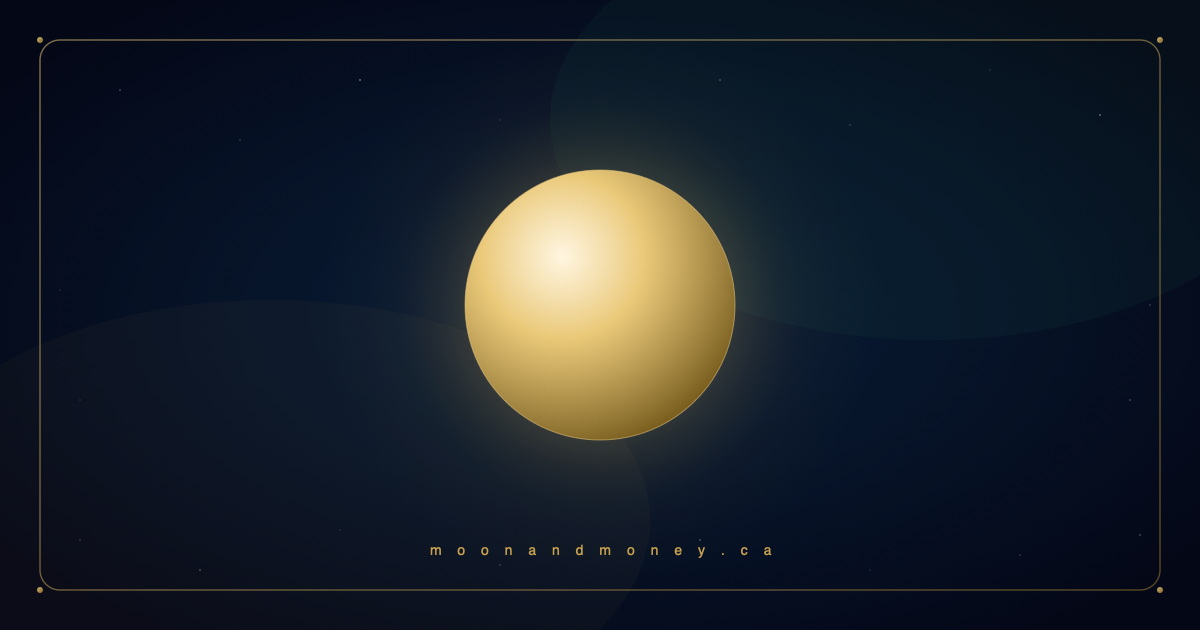
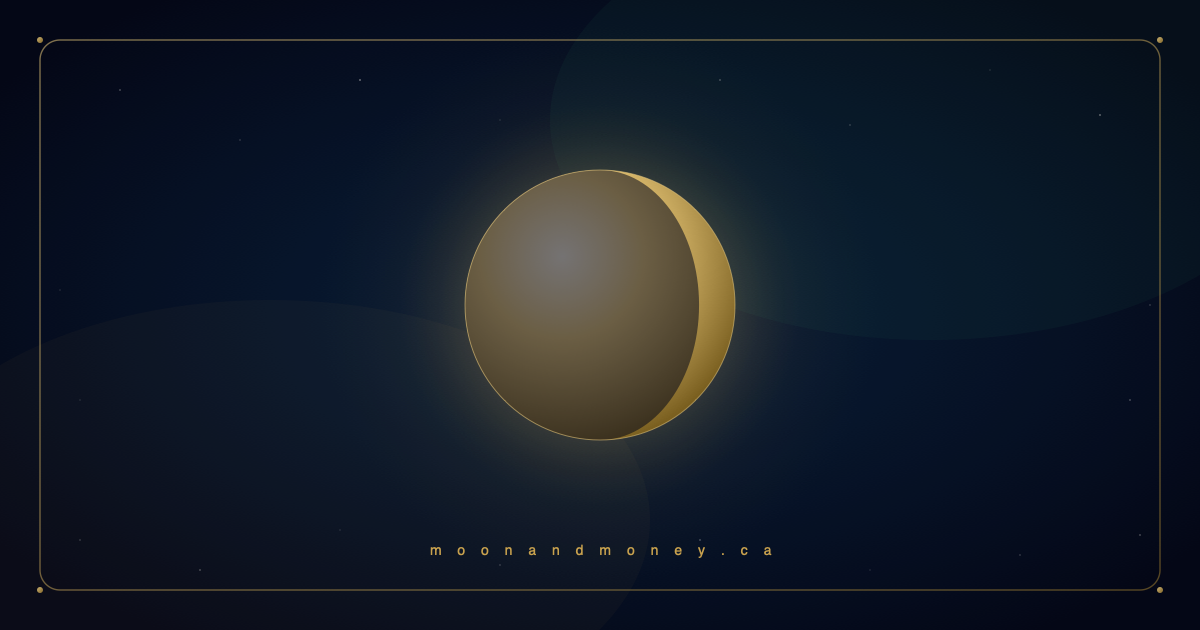
OG moon card: now reflects tonight's actual phase
The link-preview card used to show a static full moon — out of step
with the rest of the site, where every moon (hero, favicon, pendulum
anchor) tracks the real sky. This adds a small piece of zero-touch
infrastructure that keeps the OG card in sync.

Mechanism:
- scripts/og-moon-phase.py: reads the canonical social.svg, computes
  today's phase using the same synodic constants main.js uses
  (29.530588853 day cycle, Jan 6 2000 18:14 UTC epoch), draws a soft
  terminator path over the gold disc at 55% opacity, renders to
  social.png via rsvg-convert (Linux CI) or sips (macOS local). Soft
  rather than literal so the card always looks luminous in link
  previews — even at new moon you still see the gold disc dimmed,
  not a black void.
- .github/workflows/og-moon-phase.yml: runs the script daily at
  04:17 UTC, commits as moonandmoney (matches the Netlify-recognised
  contributor), and pushes. Netlify auto-deploys.
- Cache-buster bumps to today's date (?v=YYYYMMDD) on every og:image
  and twitter:image reference so messaging apps always refetch.

Today's first run baked in: waxing crescent at ~13% illumination.
Action triggers tomorrow morning UTC.

Changed region(s): [[0.37, 0.2714, 0.5858, 0.6937]]

diff --git a/about.html b/about.html
@@ -6,11 +6,11 @@
 <title>The Ethos · Moon &amp; Money</title>
 <meta name="description" content="The story behind Moon & Money and Luna Wilde. Where astrology meets personal finance, and where the brand is going next."><meta property="og:type" content="website">
 <meta property="og:site_name" content="Moon &amp; Money">
-<meta property="og:image" content="https://moonandmoney.ca/assets/og/social.png?v=2">
+<meta property="og:image" content="https://moonandmoney.ca/assets/og/social.png?v=20260520">
 <meta property="og:image:width" content="1200">
 <meta property="og:image:height" content="630">
 <meta name="twitter:card" content="summary_large_image">
-<meta name="twitter:image" content="https://moonandmoney.ca/assets/og/social.png?v=2">
+<meta name="twitter:image" content="https://moonandmoney.ca/assets/og/social.png?v=20260520">
 
 <link rel="preconnect" href="https://fonts.googleapis.com">
 <link rel="preconnect" href="https://fonts.gstatic.com" crossorigin>

diff --git a/archive.html b/archive.html
@@ -6,11 +6,11 @@
 <title>The Archive · Moon &amp; Money</title>
 <meta name="description" content="The Moon & Money archive. Every Friday reading, free to read in full. Personal finance, read through astrology."><meta property="og:type" content="website">
 <meta property="og:site_name" content="Moon &amp; Money">
-<meta property="og:image" content="https://moonandmoney.ca/assets/og/social.png?v=2">
+<meta property="og:image" content="https://moonandmoney.ca/assets/og/social.png?v=20260520">
 <meta property="og:image:width" content="1200">
 <meta property="og:image:height" content="630">
 <meta name="twitter:card" content="summary_large_image">
-<meta name="twitter:image" content="https://moonandmoney.ca/assets/og/social.png?v=2">
+<meta name="twitter:image" content="https://moonandmoney.ca/assets/og/social.png?v=20260520">
 
 <link rel="preconnect" href="https://fonts.googleapis.com">
 <link rel="preconnect" href="https://fonts.gstatic.com" crossorigin>

diff --git a/article.html b/article.html
@@ -6,11 +6,11 @@
 <title>Reading · Moon &amp; Money</title>
 <meta name="description" content="A Moon & Money reading. Personal finance through the astrological lens, by Luna Wilde. Free to read on the website."><meta property="og:type" content="website">
 <meta property="og:site_name" content="Moon &amp; Money">
-<meta property="og:image" content="https://moonandmoney.ca/assets/og/social.png?v=2">
+<meta property="og:image" content="https://moonandmoney.ca/assets/og/social.png?v=20260520">
 <meta property="og:image:width" content="1200">
 <meta property="og:image:height" content="630">
 <meta name="twitter:card" content="summary_large_image">
-<meta name="twitter:image" content="https://moonandmoney.ca/assets/og/social.png?v=2">
+<meta name="twitter:image" content="https://moonandmoney.ca/assets/og/social.png?v=20260520">
 
 <link rel="preconnect" href="https://fonts.googleapis.com">
 <link rel="preconnect" href="https://fonts.gstatic.com" crossorigin>

diff --git a/courses.html b/courses.html
@@ -6,11 +6,11 @@
 <title>The Academy · Moon &amp; Money</title>
 <meta name="description" content="The Moon & Money Academy. Guided lunar money courses, coming soon. Deeper work, self-paced, in the Moon & Money voice."><meta property="og:type" content="website">
 <meta property="og:site_name" content="Moon &amp; Money">
-<meta property="og:image" content="https://moonandmoney.ca/assets/og/social.png?v=2">
+<meta property="og:image" content="https://moonandmoney.ca/assets/og/social.png?v=20260520">
 <meta property="og:image:width" content="1200">
 <meta property="og:image:height" content="630">
 <meta name="twitter:card" content="summary_large_image">
-<meta name="twitter:image" content="https://moonandmoney.ca/assets/og/social.png?v=2">
+<meta name="twitter:image" content="https://moonandmoney.ca/assets/og/social.png?v=20260520">
 
 <link rel="preconnect" href="https://fonts.googleapis.com">
 <link rel="preconnect" href="https://fonts.gstatic.com" crossorigin>

diff --git a/draw.html b/draw.html
@@ -6,11 +6,11 @@
 <title>The Daily Card · Moon &amp; Money</title>
 <meta name="description" content="One card a day, drawn by the Moon's sign. A recognition, a whisper, and one money move. From Moon & Money by Luna Wilde."><meta property="og:type" content="website">
 <meta property="og:site_name" content="Moon &amp; Money">
-<meta property="og:image" content="https://moonandmoney.ca/assets/og/social.png?v=2">
+<meta property="og:image" content="https://moonandmoney.ca/assets/og/social.png?v=20260520">
 <meta property="og:image:width" content="1200">
 <meta property="og:image:height" content="630">
 <meta name="twitter:card" content="summary_large_image">
-<meta name="twitter:image" content="https://moonandmoney.ca/assets/og/social.png?v=2">
+<meta name="twitter:image" content="https://moonandmoney.ca/assets/og/social.png?v=20260520">
 
 <link rel="preconnect" href="https://fonts.googleapis.com">
 <link rel="preconnect" href="https://fonts.gstatic.com" crossorigin>

diff --git a/index.html b/index.html
@@ -11,14 +11,14 @@
 <meta property="og:title" content="Moon &amp; Money">
 <meta property="og:description" content="Where the moon meets your money. Personal finance, read through astrology.">
 <meta property="og:url" content="https://moonandmoney.ca/">
-<meta property="og:image" content="https://moonandmoney.ca/assets/og/social.png?v=2">
+<meta property="og:image" content="https://moonandmoney.ca/assets/og/social.png?v=20260520">
 <meta property="og:image:width" content="1200">
 <meta property="og:image:height" content="630">
 <meta property="og:image:alt" content="A luminous gold moon on a starry sky. Moon & Money — where the moon meets your money.">
 <meta name="twitter:card" content="summary_large_image">
 <meta name="twitter:title" content="Moon &amp; Money">
 <meta name="twitter:description" content="Where the moon meets your money. Personal finance, read through astrology.">
-<meta name="twitter:image" content="https://moonandmoney.ca/assets/og/social.png?v=2">
+<meta name="twitter:image" content="https://moonandmoney.ca/assets/og/social.png?v=20260520">
 <link rel="preconnect" href="https://fonts.googleapis.com">
 <link rel="preconnect" href="https://fonts.gstatic.com" crossorigin>
 <link rel="manifest" href="/manifest.webmanifest"><link rel="apple-touch-icon" href="/assets/og/apple-touch-icon.png"><meta name="theme-color" content="#070608"><meta name="apple-mobile-web-app-title" content="Moon & Money"><meta name="apple-mobile-web-app-capable" content="yes"><meta name="apple-mobile-web-app-status-bar-style" content="black-translucent"><link rel="stylesheet" href="assets/css/styles.css">

diff --git a/money-chart.html b/money-chart.html
@@ -6,11 +6,11 @@
 <title>The Money Chart · Moon &amp; Money</title>
 <meta name="description" content="The Money Chart. Read for you alone. Eight pages, generated by the Moon & Money astro-finance framework and sent to your inbox. Your money temperament, timing and patterns, drawn from your birth chart."><meta property="og:type" content="website">
 <meta property="og:site_name" content="Moon &amp; Money">
-<meta property="og:image" content="https://moonandmoney.ca/assets/og/social.png?v=2">
+<meta property="og:image" content="https://moonandmoney.ca/assets/og/social.png?v=20260520">
 <meta property="og:image:width" content="1200">
 <meta property="og:image:height" content="630">
 <meta name="twitter:card" content="summary_large_image">
-<meta name="twitter:image" content="https://moonandmoney.ca/assets/og/social.png?v=2">
+<meta name="twitter:image" content="https://moonandmoney.ca/assets/og/social.png?v=20260520">
 
 <link rel="preconnect" href="https://fonts.googleapis.com">
 <link rel="preconnect" href="https://fonts.gstatic.com" crossorigin>

diff --git a/pendulum/index.html b/pendulum/index.html
@@ -9,11 +9,11 @@
 <meta property="og:description" content="A breath and coherence practice. Pair with any standard Bluetooth HRV sensor. By Luna Wilde at moonandmoney.ca." />
 <meta property="og:url" content="https://moonandmoney.ca/pendulum" />
 <meta property="og:type" content="website" />
-<meta property="og:image" content="https://moonandmoney.ca/assets/og/social.png?v=2" />
+<meta property="og:image" content="https://moonandmoney.ca/assets/og/social.png?v=20260520" />
 <meta property="og:image:width" content="1200" />
 <meta property="og:image:height" content="630" />
 <meta name="twitter:card" content="summary_large_image" />
-<meta name="twitter:image" content="https://moonandmoney.ca/assets/og/social.png?v=2" />
+<meta name="twitter:image" content="https://moonandmoney.ca/assets/og/social.png?v=20260520" />
 <link rel="preconnect" href="https://fonts.googleapis.com">
 <link rel="preconnect" href="https://fonts.gstatic.com" crossorigin>
 <link rel="manifest" href="/manifest.webmanifest"><link rel="apple-touch-icon" href="/assets/og/apple-touch-icon.png"><meta name="theme-color" content="#070608"><meta name="apple-mobile-web-app-title" content="Moon & Money"><meta name="apple-mobile-web-app-capable" content="yes"><meta name="apple-mobile-web-app-status-bar-style" content="black-translucent"><link href="https://fonts.googleapis.com/css2?family=Arimo:wght@400;500;600;700&family=Cormorant+Garamond:ital,wght@0,300;0,400;0,500;1,300;1,400;1,500&display=swap" rel="stylesheet">

diff --git a/quiz.html b/quiz.html
@@ -6,11 +6,11 @@
 <title>Your Moon Money Sign · Moon &amp; Money</title>
 <meta name="description" content="Find your Moon Money Sign in seven questions. The Moon sign that drives how you earn, hold and spend. No birth time needed."><meta property="og:type" content="website">
 <meta property="og:site_name" content="Moon &amp; Money">
-<meta property="og:image" content="https://moonandmoney.ca/assets/og/social.png?v=2">
+<meta property="og:image" content="https://moonandmoney.ca/assets/og/social.png?v=20260520">
 <meta property="og:image:width" content="1200">
 <meta property="og:image:height" content="630">
 <meta name="twitter:card" content="summary_large_image">
-<meta name="twitter:image" content="https://moonandmoney.ca/assets/og/social.png?v=2">
+<meta name="twitter:image" content="https://moonandmoney.ca/assets/og/social.png?v=20260520">
 
 <link rel="preconnect" href="https://fonts.googleapis.com">
 <link rel="preconnect" href="https://fonts.gstatic.com" crossorigin>

diff --git a/rewards.html b/rewards.html
@@ -10,11 +10,11 @@
 <meta property="og:title" content="Luna Rewards · Moon &amp; Money">
 <meta property="og:description" content="When you share the moon, the moon shares back.">
 <meta property="og:url" content="https://moonandmoney.ca/rewards">
-<meta property="og:image" content="https://moonandmoney.ca/assets/og/social.png?v=2">
+<meta property="og:image" content="https://moonandmoney.ca/assets/og/social.png?v=20260520">
 <meta property="og:image:width" content="1200">
 <meta property="og:image:height" content="630">
 <meta name="twitter:card" content="summary_large_image">
-<meta name="twitter:image" content="https://moonandmoney.ca/assets/og/social.png?v=2">
+<meta name="twitter:image" content="https://moonandmoney.ca/assets/og/social.png?v=20260520">
 <link rel="manifest" href="/manifest.webmanifest">
 <link rel="apple-touch-icon" href="/assets/og/apple-touch-icon.png">
 <meta name="theme-color" content="#070608">

diff --git a/sessions.html b/sessions.html
@@ -6,11 +6,11 @@
 <title>Sessions · Moon &amp; Money</title>
 <meta name="description" content="Moon & Money Sessions. A guided Yoga Nidra rest practice in the Luna Wilde voice. The settling that lets the building hold."><meta property="og:type" content="website">
 <meta property="og:site_name" content="Moon &amp; Money">
-<meta property="og:image" content="https://moonandmoney.ca/assets/og/social.png?v=2">
+<meta property="og:image" content="https://moonandmoney.ca/assets/og/social.png?v=20260520">
 <meta property="og:image:width" content="1200">
 <meta property="og:image:height" content="630">
 <meta name="twitter:card" content="summary_large_image">
-<meta name="twitter:image" content="https://moonandmoney.ca/assets/og/social.png?v=2">
+<meta name="twitter:image" content="https://moonandmoney.ca/assets/og/social.png?v=20260520">
 
 <link rel="preconnect" href="https://fonts.googleapis.com">
 <link rel="preconnect" href="https://fonts.gstatic.com" crossorigin>

diff --git a/shop.html b/shop.html
@@ -6,11 +6,11 @@
 <title>The Atelier · Moon &amp; Money</title>
 <meta name="description" content="The Moon & Money Atelier. Moon Sign Money Guides, element bundles, the Lunar Money Calendar 2026, finance tools and celestial cards. Instant digital downloads."><meta property="og:type" content="website">
 <meta property="og:site_name" content="Moon &amp; Money">
-<meta property="og:image" content="https://moonandmoney.ca/assets/og/social.png?v=2">
+<meta property="og:image" content="https://moonandmoney.ca/assets/og/social.png?v=20260520">
 <meta property="og:image:width" content="1200">
 <meta property="og:image:height" content="630">
 <meta name="twitter:card" content="summary_large_image">
-<meta name="twitter:image" content="https://moonandmoney.ca/assets/og/social.png?v=2">
+<meta name="twitter:image" content="https://moonandmoney.ca/assets/og/social.png?v=20260520">
 
 <link rel="preconnect" href="https://fonts.googleapis.com">
 <link rel="preconnect" href="https://fonts.gstatic.com" crossorigin>